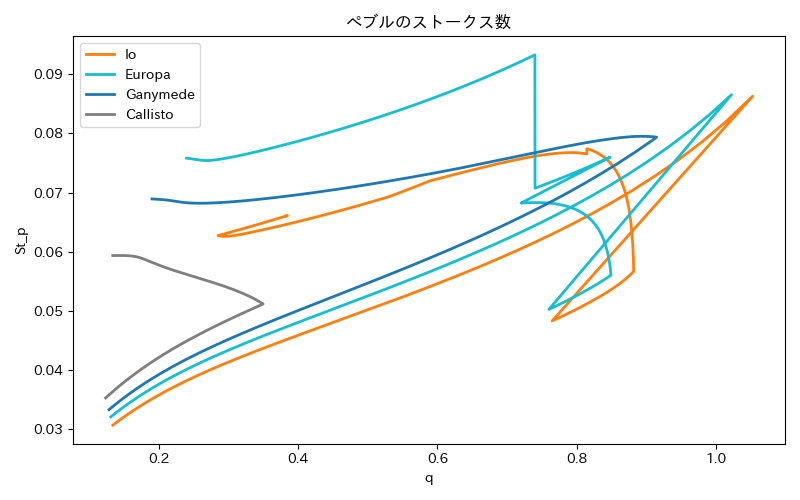
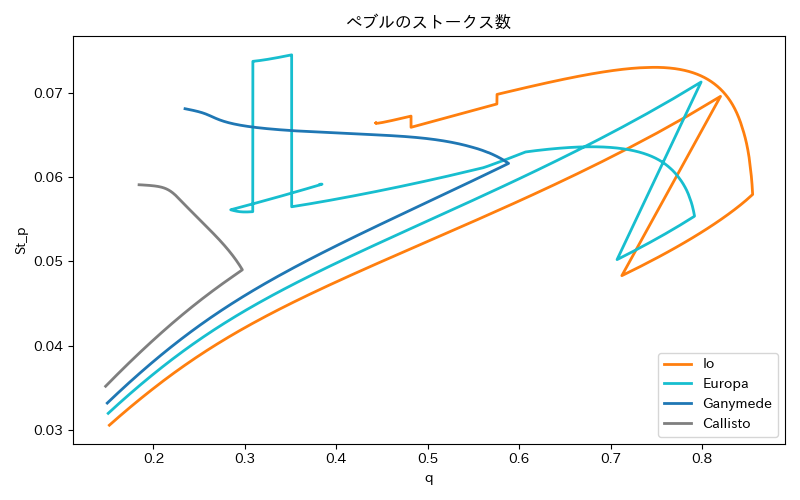
r_ggを1.7e-7にした

diff --git a/gallilean_central_flax.py b/gallilean_central_flax.py
@@ -9,7 +9,7 @@ plt.rcParams['font.family'] = 'IPAexGothic'
 # --- 物理定数 ---
 G = 6.6743e-8             # 万有引力定数 (cm^3/g/s^2)
 sigma_sb = 5.67e-5         # ステファン・ボルツマン定数 (W/cm^2/K^4)
-r_gg = 3.4e-7              # 粒子とガスの面密度比
+r_gg = 1.7e-7              # 粒子とガスの面密度比
 k_B = 1.380649e-16         # ボルツマン定数 (erg/K)
 m_g = 3.9e-24              # ガスの平均分子質量 (g)
 alpha = 1.0e-4              # 乱流の強さ
@@ -1234,3 +1234,68 @@ plt.grid(True, which="both", linestyle=":", alpha=0.7)
 plt.tight_layout()
 plt.savefig("snowline_central_flux.png")
 plt.close()
+"""
+# ==========================================
+# 追加: ガニメデ軌道における光学厚み tau の時間進化 (r_gg 依存性の比較)
+# ==========================================
+target_r_tau = 14.97 * R_J  # ガニメデの軌道
+t_array_tau = np.logspace(5, 7.5, 50)  # 10万年〜約3000万年
+
+# 現在の r_gg (3.4e-7) を含め、論文(1.7e-7)前後の候補リストを設定
+r_gg_candidates = [1.0e-7, 1.7e-7, 3.4e-7, 5.0e-7, 8.0e-7] 
+
+plt.figure(figsize=(9, 6))
+
+for r_gg_test in r_gg_candidates:
+    tau_history = []
+    t_history_tau = []
+    
+    for t_yr in t_array_tau:
+        # 各時刻の円盤の基本パラメータを計算
+        M_cp_MJ_tau = calculate_M_cp(t_yr, t_gap)
+        M_cp_kg_tau = M_cp_MJ_tau * M_J
+        M_dot_g_kg_s_tau = calculate_mdot_g(t_yr, t_gap) * M_J / (365.25 * 24 * 3600)
+        L_cp_tau = calculate_L_cp(t_yr, t_gap)
+        
+        # ガニメデ軌道での温度と面密度を計算
+        T_d_tau, Sigma_g_tau = calculate_disk_structure(M_cp_kg_tau, M_dot_g_kg_s_tau, target_r_tau, alpha, r_gg_test, L_cp_tau, q_guess=0.5)
+        
+        if np.isnan(T_d_tau):
+            continue
+            
+        # ガス圧と動的スノーラインの計算
+        Omega_K_tau = np.sqrt(G * M_cp_kg_tau / target_r_tau**3)
+        c_s_tau = np.sqrt((k_B * T_d_tau) / m_g)
+        H_g_tau = c_s_tau / Omega_K_tau
+        rho_g_tau = Sigma_g_tau / (np.sqrt(2.0 * np.pi) * H_g_tau)
+        P_gas_cgs_tau = rho_g_tau * c_s_tau**2
+        
+        X_H2O = 1.7e-4
+        P_H2O_cgs_tau = max(X_H2O * P_gas_cgs_tau, 1e-20)
+        T_snow_tau = 6070.0 / (30.86 - np.log(P_H2O_cgs_tau))
+        
+        # オパシティ kappa と 光学厚み tau の計算
+        if T_d_tau < T_snow_tau:
+            kappa_tau = 450.0 * (T_d_tau / T_snow_tau)**2 * r_gg_test
+        else:
+            kappa_tau = 450.0 * r_gg_test
+            
+        tau_val = kappa_tau * Sigma_g_tau
+        tau_history.append(tau_val)
+        t_history_tau.append(t_yr)
+        
+    plt.plot(t_history_tau, tau_history, label=f'$r_{{gg}} = {r_gg_test:.1e}$', linewidth=2)
+
+# 物理的な境界線である tau = 1 に直線を引く
+plt.axhline(y=1.0, color='red', linestyle='--', linewidth=2, label=r'$\tau = 1$ (遷移ライン)')
+
+plt.xscale('log')
+plt.yscale('log')
+plt.xlabel('Time (Years)', fontsize=14)
+plt.ylabel(r'Optical Depth $\tau$ at Ganymede Orbit', fontsize=14)
+plt.title('ガニメデ軌道 (15 $R_J$) における光学厚み $\tau$ の進化', fontsize=16)
+plt.legend(fontsize=12)
+plt.grid(True, which="both", linestyle=":", alpha=0.7)
+plt.tight_layout()
+plt.savefig("tau_evolution_ganymede_comparison.png")
+"""
